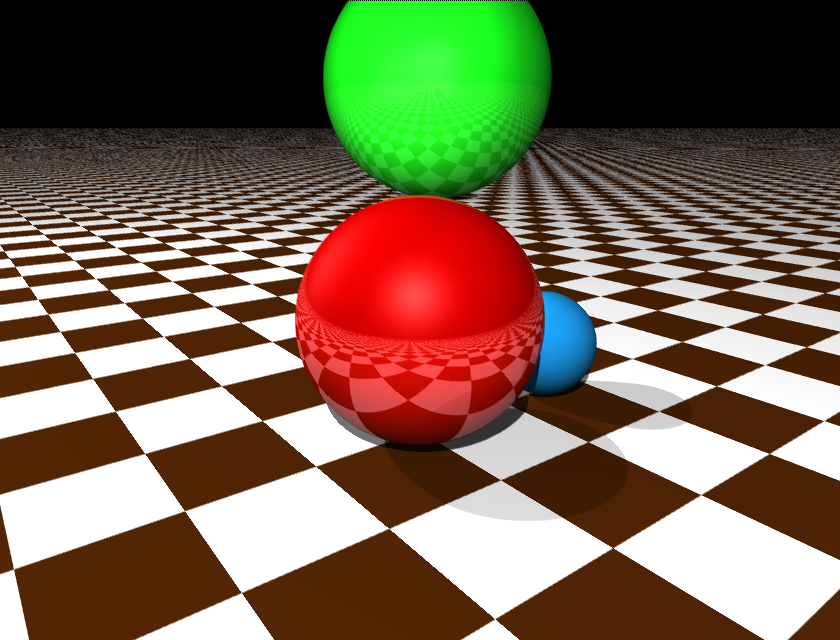
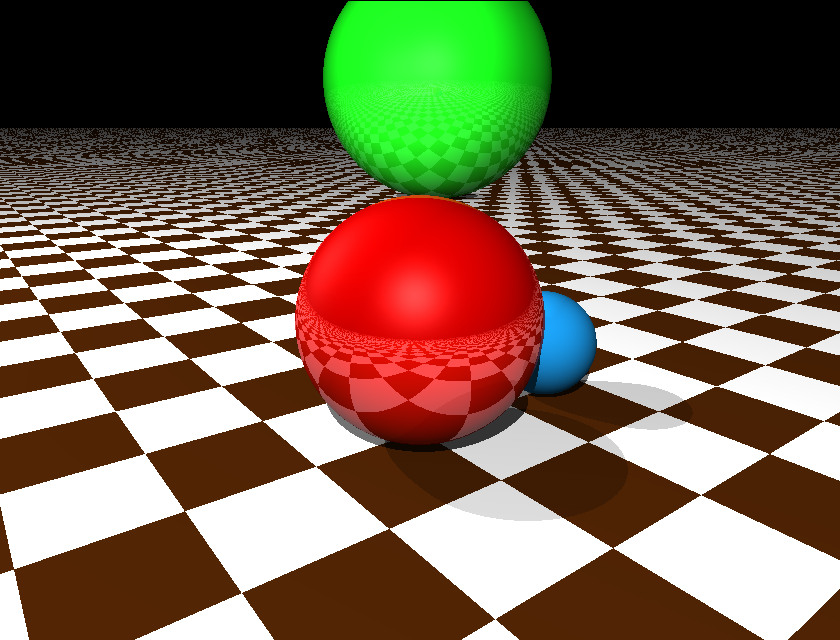
Correcciones finales a escena

diff --git a/src/proyectoraytracing/ProyectoRayTracing.java b/src/proyectoraytracing/ProyectoRayTracing.java
@@ -30,6 +30,7 @@ public class ProyectoRayTracing {
      * @param args the command line arguments
      */
     public static void main(String[] args) {
+        
         long start = System.nanoTime();
         
         
@@ -43,21 +44,18 @@ public class ProyectoRayTracing {
         
         BufferedImage buffer;
         File image;
-        Color color = new Color(0.0F, 0.0F, 0.0F, 0.0F); //color tiene un 
-                                                      //atributo special 
+        Color color = new Color(0.0F, 0.0F, 0.0F, 0.0F);
         String filename;
         if(aadepth == 1){
             filename = "Image_sin_antialising.png";
         }else{
             filename = "Image.png";
         }
-        image = new File(filename);
+        image = new File(filename); 
         buffer = new BufferedImage(width, height, BufferedImage.TYPE_INT_RGB);
         
         Vector3D O = new Vector3D(0, 0, 0);
-        Vector3D X = new Vector3D(1, 0, 0);
         Vector3D Y = new Vector3D(0, 1, 0);
-        Vector3D Z = new Vector3D(0, 0, 1);
         
         Vector3D new_sphere_location = new Vector3D(1.5, -0.5, 0);
         Vector3D big_sphere_location = new Vector3D(12, 3, 15);
@@ -79,7 +77,7 @@ public class ProyectoRayTracing {
         Color cyan = new Color(0.09411F, 0.54509F, 0.82745F, 0F);
         Color green = new Color(0.08627F, 0.82745F, 0.09804F, 0.15F);
         Color tile_floor = new Color(0.28627F, 0.12941F, 0.015686F,2F);
-        Color gray = new Color(0.5F, 0.5F, 0.5F, 0); //(0.5F, 0.5F, 0.5F, 0)
+        Color gray = new Color(0.5F, 0.5F, 0.5F, 0);
         
         Vector3D light_pos = new Vector3D(-9, 10, -10);  
         Vector3D light_pos2 = new Vector3D(-4.5, 5, 10);
@@ -105,10 +103,9 @@ public class ProyectoRayTracing {
         double xamnt,yamnt;
         double[] tempRed, tempGreen, tempBlue;
         
-        for(int y=0;y < height ; y++){
-            for(int x=0; x < width ; x++){
+        for(int x = 0; x < width ; x++){
+            for(int y = 0;y < height ; y++){
                 
-                //start with a blank pixel 
                 tempRed = new double[aadepth*aadepth];
                 tempGreen = new double[aadepth*aadepth];
                 tempBlue = new double[aadepth*aadepth];
@@ -116,7 +113,7 @@ public class ProyectoRayTracing {
                 for(int aax = 0 ; aax < aadepth ; aax++){
                     for(int aay = 0 ; aay < aadepth ; aay++){
                         aa_index = aay*aadepth + aax;
-                        if(aadepth==1){
+                        if(true){
                             //start with no anti-aliasing
                             if (width>height){
                                 //the image is wider than it is tall
@@ -134,26 +131,7 @@ public class ProyectoRayTracing {
                                     yamnt = ((height-y)+0.5)/height;
                                 }
                             }
-                        }else{
-                            // - Anti alising
-                            if (width>height){
-                                //the image is wider than it is tall
-                                xamnt = ((x + (double)aax/((double)aadepth - 1))/width)*aspectratio-(((width-height)/(double)height)/2);
-                                yamnt = ((height - y) + (double)aax/((double)aadepth - 1))/height;
-                            }else{
-                                if (height>width){
-                                    //the image is taller than it is wide
-                                    xamnt = (x + (double)aax/((double)aadepth - 1))/width;
-                                    yamnt = (((height-y) + (double)aax/((double)aadepth - 1))/height)/aspectratio - (((height-width)/(double)width)/2);
-
-                                }else{
-                                    //the imagen is square
-                                    xamnt = (x + (double)aax/((double)aadepth - 1))/width;
-                                    yamnt = ((height - y) + (double)aax/((double)aadepth - 1))/height;
-                                }
-                            }
                         }
-                        
 
                         Vector3D cam_ray_origin = scene_cam.getCameraPos();
                         Vector3D cam_ray_direction = camdir.add(camright.mult(xamnt-0.5).add(camdown.mult(yamnt-0.5))).normalize();
@@ -163,13 +141,12 @@ public class ProyectoRayTracing {
                         ArrayList<Double> intersections = new ArrayList();
                         for(int index = 0 ; index < scene_objects.size(); index++){
                             Object o = scene_objects.get(index);
-                            intersections.add(o.findIntersection(cam_ray)); //Necesario importar clase para que funcione
+                            intersections.add(o.findIntersection(cam_ray));
                         }
 
                         int index_of_winning_object = winningObjectIndex(intersections);
 
                         if(index_of_winning_object == -1){
-                            //color = new Color(0, 0, 0, 0); 
                             //Dibuja background, Color Negro definido, por defecto
                             tempRed[aa_index] = 0;
                             tempGreen[aa_index] = 0;
@@ -214,9 +191,9 @@ public class ProyectoRayTracing {
                         
                 color.r = avgRed; color.g = avgGreen; color.b = avgBlue;
                         
-                y = height - y; // Parche: Para corregir el sentido en imagen dibujada
+                int ny = height - y; // Parche: Para corregir el sentido en imagen dibujada
 
-                if(y >= 0 && y < height)buffer.setRGB(x, y, color.toInteger()); //Dibuja en buffer, pregunta si y no excede limite (por parche)
+                if(ny >= 0 && ny < height)buffer.setRGB(x, ny, color.toInteger()); //Dibuja en buffer, pregunta si y no excede limite (por parche)
             }
         }
         
@@ -235,36 +212,24 @@ public class ProyectoRayTracing {
         
     }
     public static int winningObjectIndex(ArrayList<Double> object_intersections){
-        
-        //return the index of the winnig intersection 40:00
         int index_of_minimum_value = 0;
-        
-        //prevent unnessary calculations
         if(object_intersections.isEmpty()){
-            //if there are no intersections
             return -1;
         }else{
             if(object_intersections.size()==1){
                 if(object_intersections.get(0) > 0){
-                    //if that intersection is greater than zero then its our index of minimun value   
                     return 0;
                 }else{
-                    //otherwise the only intersection value is negative
                     return -1;
                 }
             }else{
-                //otherwise there is more than intersection
-                //first find the maximum value
-                
                 double max =0;
                 for (int algo = 0; algo<object_intersections.size() ; algo++){
                     if(max<object_intersections.get(algo)){
                         max = object_intersections.get(algo);
                     }
                 }
-                //then starting from the maximum value find the minimum positive
                 if (max >0){
-                    //we only want positive intersections
                     for(int indice = 0; indice<object_intersections.size() ; indice++){
                         if (object_intersections.get(indice) > 0 && object_intersections.get(indice) <= max){
                             max = object_intersections.get(indice);
@@ -273,7 +238,6 @@ public class ProyectoRayTracing {
                     }
                     return index_of_minimum_value;
                 }else{
-                    //all the intersections were negative
                     return -1;
                 }
             }
